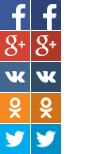
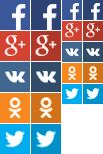
i

Changed region(s): [[0.5825, 0.0, 1.0, 0.6753]]

diff --git a/ukrainianside/layout/templates/base.html b/ukrainianside/layout/templates/base.html
@@ -72,31 +72,31 @@
                             <td>
                                 <div class="social-page-border fb-page-border">
                                     <a href="https://www.facebook.com/pages/%D0%A3%D0%BA%D1%80%D0%B0%D0%B8%D0%BD%D1%81%D0%BA%D0%B0%D1%8F-%D1%81%D1%82%D0%BE%D1%80%D0%BE%D0%BD%D0%BA%D0%B0/553617881389312">
-                                        <div class="social-page social-page-btn fb-page-btn"></div></a>
+                                        <div class="social-page social-btn fb-page-btn"></div></a>
                                 </div>
                             </td>
                             <td>
                                 <div class="social-page-border plus-page-border">
                                     <a href="https://plus.google.com/115514295390048380057">
-                                        <div class="social-page social-page-btn plus-page-btn"></div></a>
+                                        <div class="social-page social-btn plus-page-btn"></div></a>
                                 </div>
                             </td>
                             <td>
                                 <div class="social-page-border vk-page-border">
                                     <a href="http://vk.com/ukrainianside">
-                                        <div class="social-page social-page-btn vk-page-btn"></div></a>
+                                        <div class="social-page social-btn vk-page-btn"></div></a>
                                 </div>
                             </td>
                             <td>
                                 <div class="social-page-border od-page-border">
                                     <a href="http://www.odnoklassniki.ru/group/53020885516404">
-                                        <div class="social-page social-page-btn od-page-btn"></div></a>
+                                        <div class="social-page social-btn od-page-btn"></div></a>
                                 </div>
                             </td>
                             <td>
                                 <div class="social-page-border tw-page-border">
                                     <a href="https://twitter.com/ukrainianside">
-                                        <div class="social-page social-page-btn tw-page-btn"></div></a>
+                                        <div class="social-page social-btn tw-page-btn"></div></a>
                                 </div>
                             </td>
                         </tr>

diff --git a/ukrainianside/layout/templates/css/style.css b/ukrainianside/layout/templates/css/style.css
@@ -90,38 +90,64 @@ div.social-page-border{
 	padding: 5px;
 	border-radius: 15px;
 }
-.social-page-btn{
-	background-image: url(http://ukrainianside.com/images/sns20.png);
-	background-repeat: no-repeat;
-}
-.vk-page-btn{
-	background-position: 0px -311px;
-}
 .fb-page-btn{
-	background-position: 0px -803px;
+	background-position: -62px 0px;
+}
+.fb-page-btn:hover{
+	background-position: -83px 0px;
 }
 .plus-page-btn{
-	background-position: 0px -712px;
+	background-position: -62px -21px;
+}
+.plus-page-btn:hover{
+	background-position: -83px -21px;
+}
+.vk-page-btn{
+	background-position: -62px -42px;
+}
+.vk-page-btn:hover{
+	background-position: -83px -42px;
 }
 .od-page-btn{
-	background-position: 0px -521px;
+	background-position: -62px -63px;
+}
+.od-page-btn:hover{
+	background-position: -83px -63px;
 }
 .tw-page-btn{
-	background-position: 0px -769px;
+	background-position: -62px -84px;
 }
-.vk-page-border{
-	background-color: #42678e;
+.tw-page-btn:hover{
+	background-position: -83px -84px;
 }
 .fb-page-border{
 	background-color: #3b5999;
 }
+.fb-page-border:hover{
+	background-color: #2c4373;
+}
 .plus-page-border{
 	background-color: #d44332;
+}
+.plus-page-border:hover{
+	background-color: #ad3729;
+}
+.vk-page-border{
+	background-color: #42678e;
+}
+.vk-page-border:hover{
+	background-color: #314c69;
 }
 .od-page-border{
 	background-color: #f6881f;
 }
+.od-page-border:hover{
+	background-color: #cf721a;
+}
 .tw-page-border{
 	background-color: #00aced;
+}
+.tw-page-border:hover{
+	background-color: #0090c7;
 }
 /* -- Social Page */
